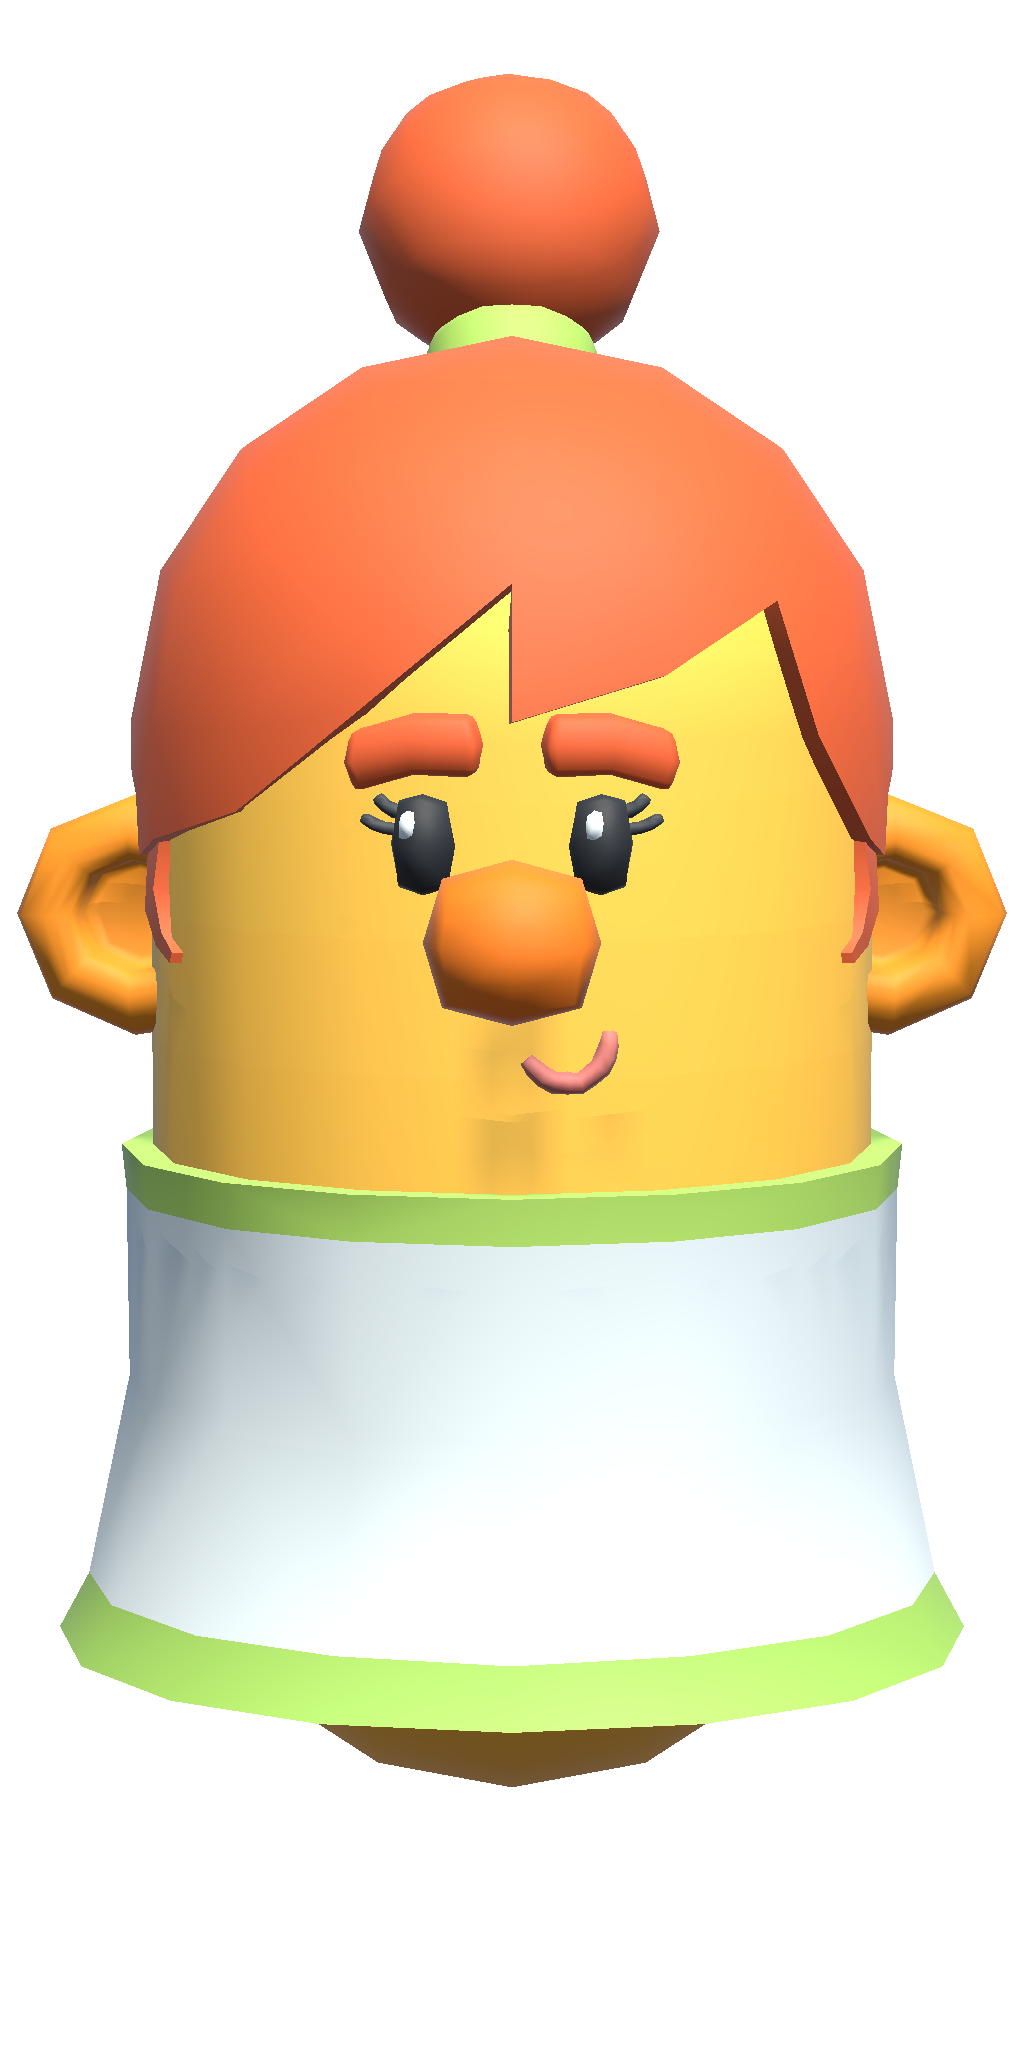
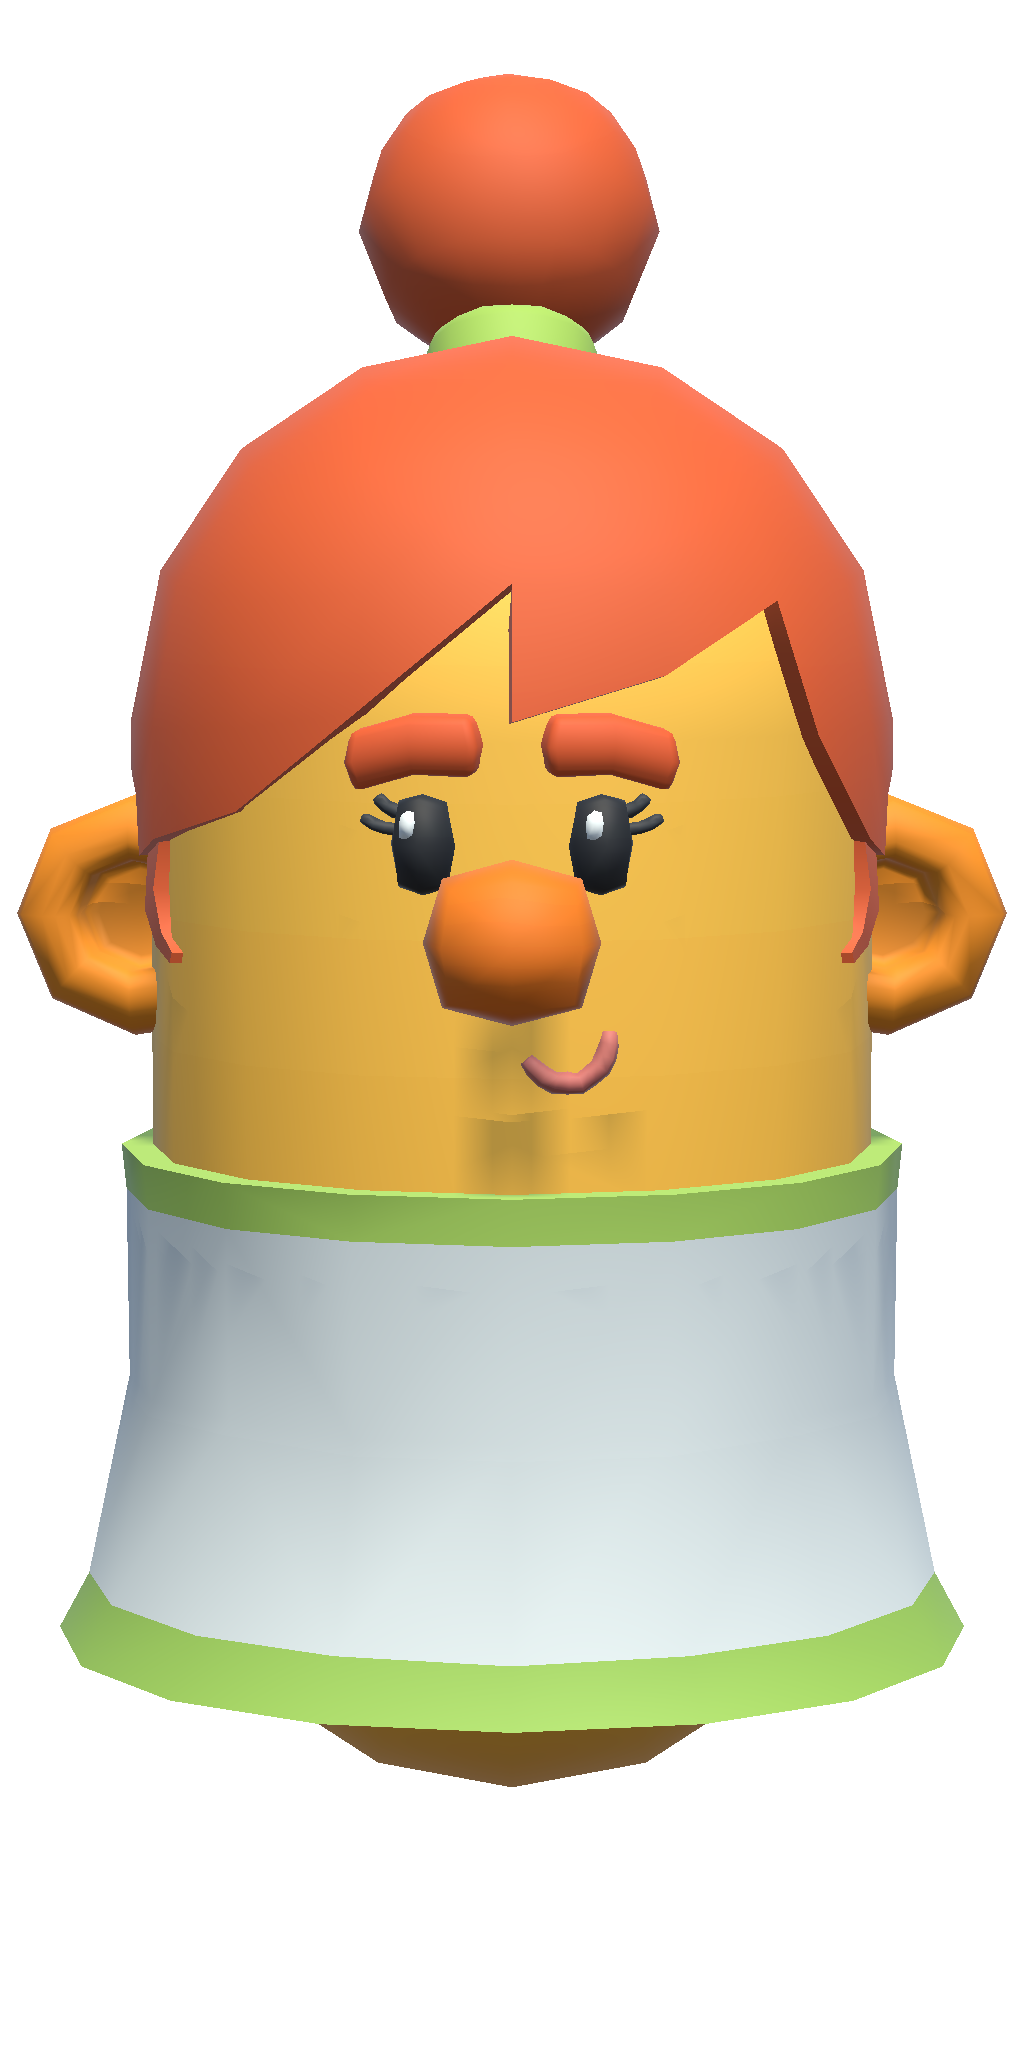
Expose light to reduce intensity.

diff --git a/Assets/Editor/CharacterPortraitWindow.cs b/Assets/Editor/CharacterPortraitWindow.cs
@@ -73,6 +73,11 @@ public class CharacterPortraitWindow : EditorWindow
         EditorGUILayout.PropertyField(so.FindProperty(nameof(CharacterPortraitConfig.CharacterOffset)));
         EditorGUILayout.PropertyField(so.FindProperty(nameof(CharacterPortraitConfig.CharacterOffsetFemale)));
 
+        EditorGUILayout.Space(4);
+        EditorGUILayout.LabelField("Light", EditorStyles.miniBoldLabel);
+        EditorGUILayout.PropertyField(so.FindProperty(nameof(CharacterPortraitConfig.LightIntensity)));
+        EditorGUILayout.PropertyField(so.FindProperty(nameof(CharacterPortraitConfig.LightRotation)));
+
         if (so.ApplyModifiedProperties())
             EditorUtility.SetDirty(_config);
 
@@ -233,8 +238,8 @@ public class CharacterPortraitWindow : EditorWindow
             "PortraitLight", HideFlags.HideAndDontSave, typeof(Light));
         Light light = lightGO.GetComponent<Light>();
         light.type = LightType.Directional;
-        light.intensity = 1.2f;
-        lightGO.transform.rotation = Quaternion.Euler(50f, -30f, 0f);
+        light.intensity = _config.LightIntensity;
+        lightGO.transform.rotation = Quaternion.Euler(_config.LightRotation);
 
         RenderTexture rt = new RenderTexture(_config.ResolutionWidth, _config.ResolutionHeight, 32, RenderTextureFormat.ARGB32)
         {

diff --git a/Assets/Editor/CharacterPortraitConfig.cs b/Assets/Editor/CharacterPortraitConfig.cs
@@ -19,4 +19,8 @@ public class CharacterPortraitConfig : ScriptableObject
     public float CharacterRotationY = 0f;
     public Vector3 CharacterOffset = Vector3.zero;
     public Vector3 CharacterOffsetFemale = Vector3.zero;
+
+    [Header("Lighting")]
+    public float LightIntensity = 1.2f;
+    public Vector3 LightRotation = new Vector3(50, -30, 0f);
 }
